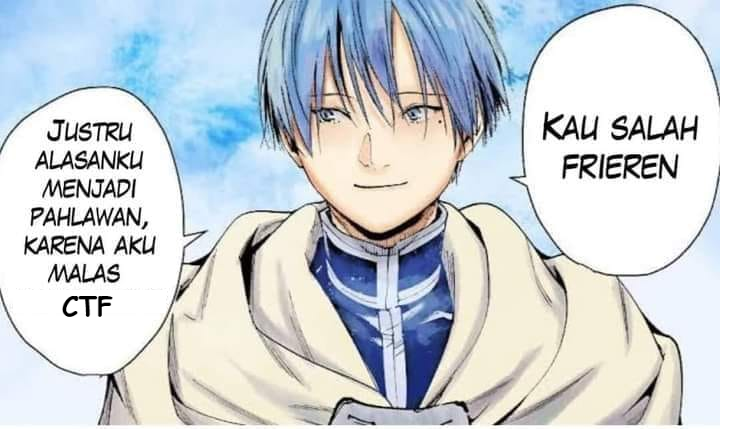
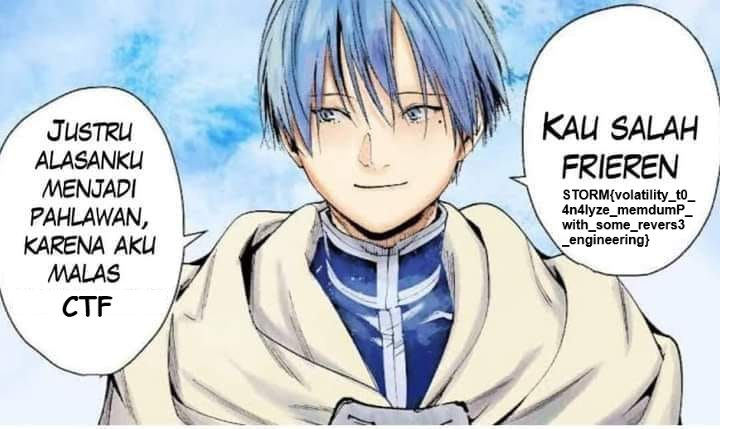
modify flag form ransomed

Changed region(s): [[0.748, 0.4242, 0.935, 0.5758]]

diff --git a/Forensic/ransomed/README.md b/Forensic/ransomed/README.md
@@ -11,7 +11,7 @@ Rev
 
 
 ## Flag:
-`STORM{ran50med_by_g0_l4ng}`
+`STORM{volatility_t0_4n4lyze_memdumP_with_some_revers3_engineering}`
 
 ## Points:
 500
